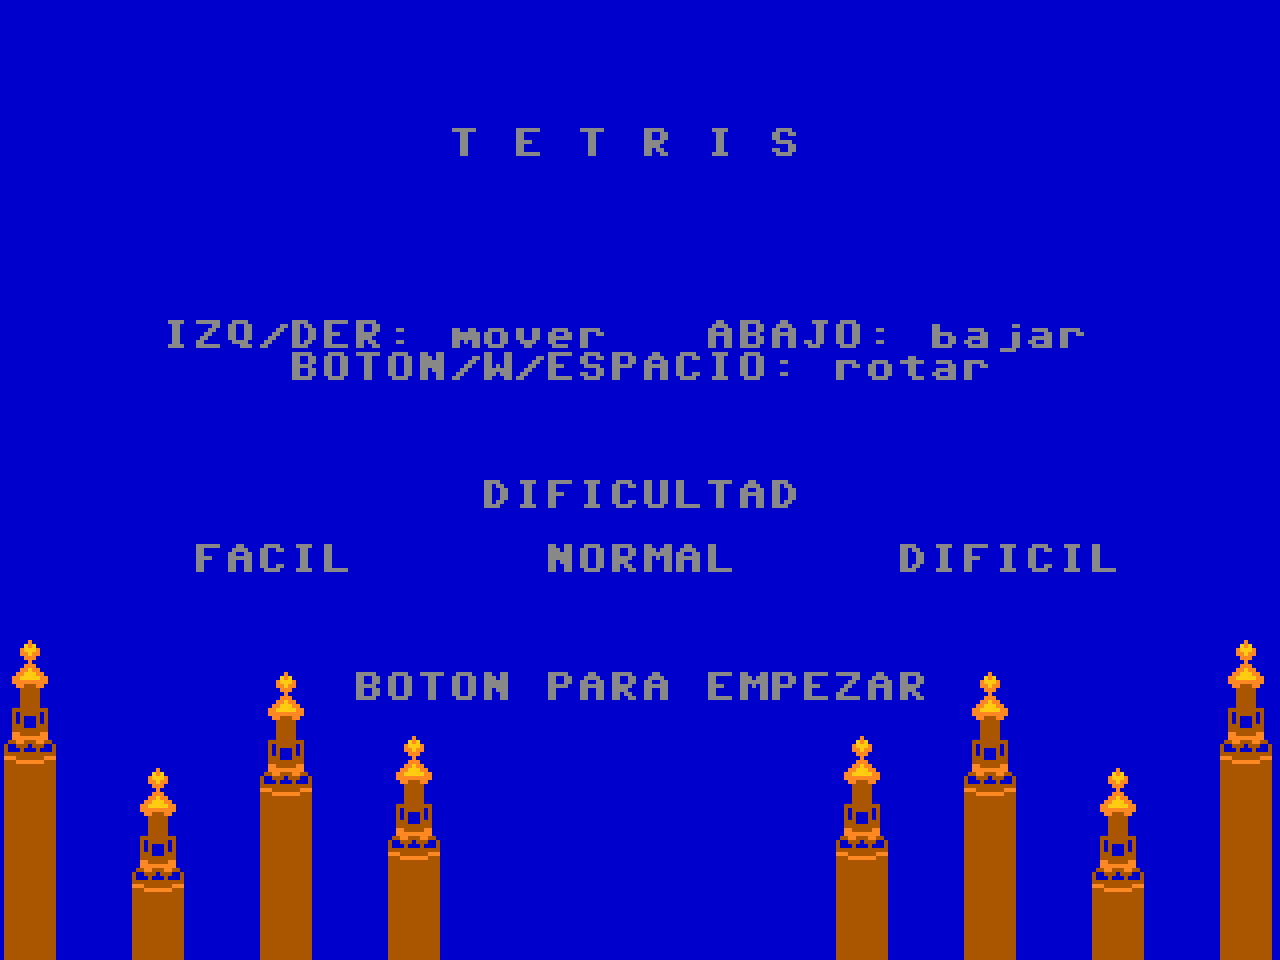
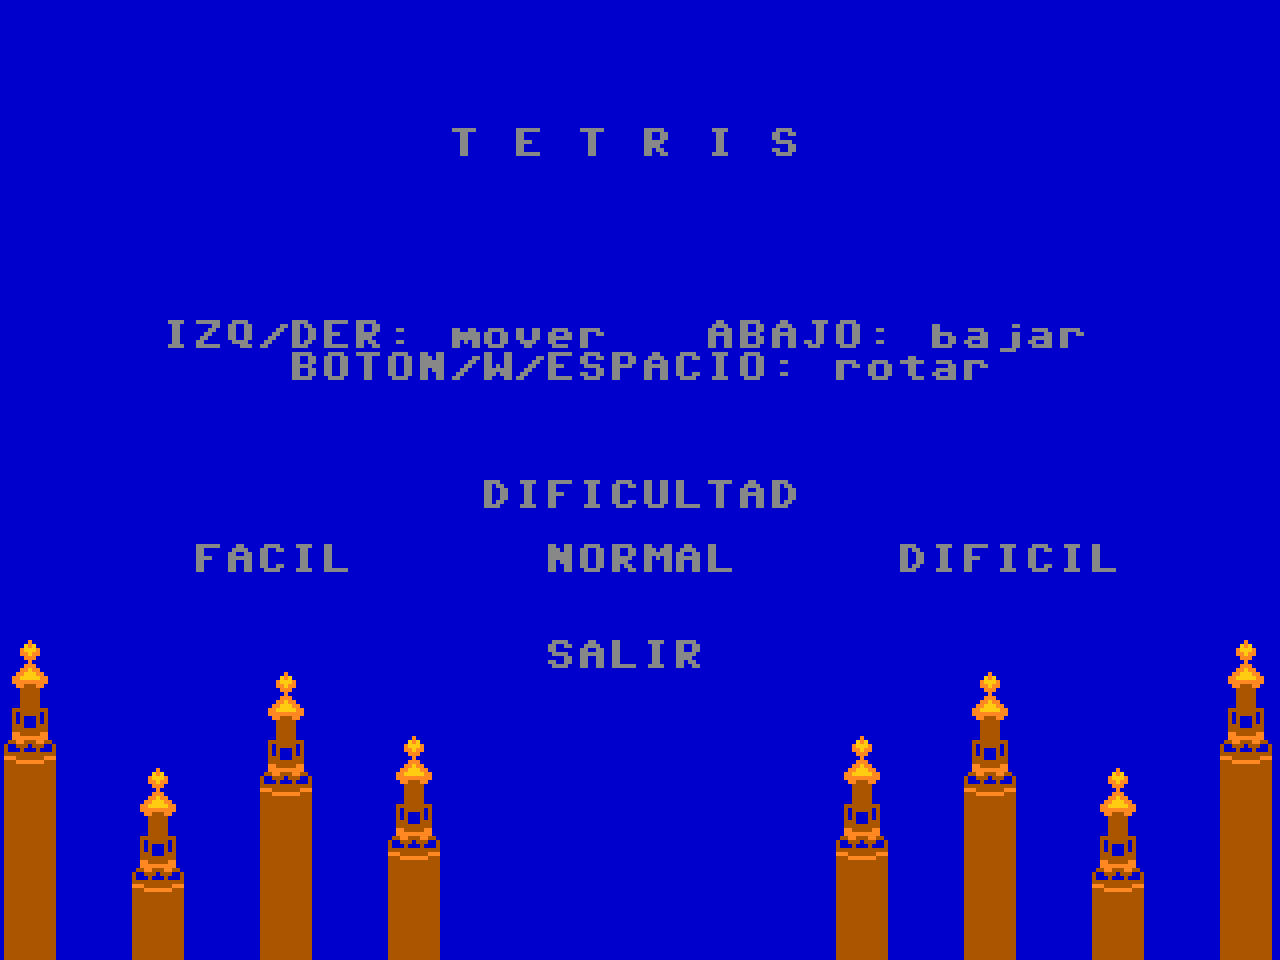
Añadir opción SALIR al menú, navegable con joystick
Selección con izquierda/derecha entre FACIL, NORMAL, DIFÍCIL y SALIR; el
botón confirma la opción resaltada. SALIR deja $C004 a 0 (como el comando
QB) para volver al launcher vía BOOT.INI.

Se elimina el aviso parpadeante de empezar, que ya no describe lo que hace
el botón, y se quita bye_screen() para hacer sitio en RAM.

Changed region(s): [[0.2812, 0.6562, 0.7188, 0.75]]

diff --git a/game.c b/game.c
@@ -1254,57 +1254,79 @@ static uint8_t play_game(void) {
  * =========================================================================== */
 
 /* Resultado de menu_input(). */
-#define MR_NONE   0
-#define MR_START  1
-#define MR_QUIT   2
-#define MR_LEFT   3
-#define MR_RIGHT  4
+#define MR_NONE     0
+#define MR_START    1
+#define MR_QUIT     2
+#define MR_LEFT     3
+#define MR_RIGHT    4
+#define MR_MONITOR  5   /* salir: vuelve al launcher (autoboot, como Q) */
+
+/* Seleccion del menu: 0..2 = dificultad, 3 = SALIR. */
+#define MENU_QUIT_ITEM  DIFF_COUNT
 
 static void draw_diff_menu(uint8_t sel, uint8_t on);
 
-/* Lee la entrada del menu de dificultad (joystick + teclado). Devuelve:
- * MR_LEFT/MR_RIGHT para cambiar la dificultad, MR_START para empezar, MR_QUIT
- * para salir. Actualiza 'difficulty' al cambiar. */
+/* Lee la entrada del menu (joystick + teclado). Devuelve:
+ *   MR_LEFT/MR_RIGHT -> mover la seleccion (dificultad o SALIR)
+ *   MR_START         -> empezar a jugar (si la seleccion es una dificultad)
+ *   MR_MONITOR       -> salir al launcher (autoboot), sea cual sea la seleccion
+ *   MR_QUIT          -> salir siempre (tecla Q)
+ * La seleccion vive en 'menu_sel' (0..DIFF_COUNT). */
+static uint8_t menu_sel;   /* 0..2 = dificultad, 3 = SALIR */
+
+/* Dibuja un item del menu en (col,row). Si esta seleccionado se pinta en color
+ * vivo (parpadea) y con flechas a los lados. */
+static void draw_item(uint8_t col, uint8_t row, const char *txt, uint8_t len,
+                      uint8_t sel, uint8_t on) {
+    uint8_t p = (uint8_t)(on ? PAL_SEL : PAL_UI);
+
+    clear_str_at((uint8_t)(col - 1), row, 9);
+    if (sel) {
+        if (on) put_str_pal((uint8_t)(col - 1), row, ">", p);
+        put_str_pal(col, row, txt, p);
+        if (on) put_str_pal((uint8_t)(col + len), row, "<", p);
+    } else {
+        put_str_pal(col, row, txt, PAL_UI);
+    }
+}
+
 static uint8_t menu_input(void) {
     char c;
     uint8_t j = joy_read();
     uint8_t res = MR_NONE;
     static uint8_t prev = 0;
     uint8_t jp = (uint8_t)(j & (uint8_t)~prev);
+    int8_t  move = 0;          /* -1 izquierda, +1 derecha, 0 = nada */
 
-    if (jp & JOY_A_LEFT)  res = MR_LEFT;
-    if (jp & JOY_A_RIGHT) res = MR_RIGHT;
-    if (jp & JOY_A_FIRE)  res = MR_START;
+    if (jp & JOY_A_LEFT)  move = -1;
+    if (jp & JOY_A_RIGHT) move = 1;
+    /* El boton actua segun lo seleccionado: SALIR -> monitor, resto -> jugar. */
+    if (jp & JOY_A_FIRE)  res = (menu_sel == MENU_QUIT_ITEM) ? MR_MONITOR : MR_START;
     prev = j;
 
     while (rom_uart_rx_ready()) {
         c = rom_uart_getc();
-        switch (c) {
-            case 'a': case 'A': case '4': res = MR_LEFT;  break;
-            case 'd': case 'D': case '6': res = MR_RIGHT; break;
-            case ' ': case '\r': case '\n': case 'e': case 'E': res = MR_START; break;
-            case 'q': case 'Q': res = MR_QUIT; break;
-            default: break;
-        }
+        if (c == 'a' || c == 'A' || c == '4') move = -1;
+        else if (c == 'd' || c == 'D' || c == '6') move = 1;
+        else if (c == 'q' || c == 'Q') res = MR_QUIT;
+        else if (c == 'm' || c == 'M') res = MR_MONITOR;
+        else if (c == ' ' || c == '\r' || c == '\n' || c == 'e' || c == 'E')
+            res = (menu_sel == MENU_QUIT_ITEM) ? MR_MONITOR : MR_START;
     }
 
-    /* Aplica el cambio de dificultad y redibuja el menu. Suena un click (reusa
-     * snd_move) solo si la seleccion cambia de verdad. */
-    if (res == MR_LEFT && difficulty > 0) {
-        difficulty--;
-        draw_diff_menu(difficulty, 1);
-        snd_move();
-        res = MR_NONE;
-    } else if (res == MR_RIGHT && difficulty < DIFF_COUNT - 1) {
-        difficulty++;
-        draw_diff_menu(difficulty, 1);
+    /* Mueve la seleccion (con clic) si cambio de verdad. */
+    if ((move < 0 && menu_sel > 0) || (move > 0 && menu_sel < MENU_QUIT_ITEM)) {
+        menu_sel = (uint8_t)(menu_sel + move);
+        if (menu_sel < DIFF_COUNT) difficulty = menu_sel;
+        draw_diff_menu(menu_sel, 1);
         snd_move();
         res = MR_NONE;
     }
     return res;
 }
 
-/* Dibuja las 3 opciones de dificultad en una fila; 'sel' va resaltada. */
+/* Dibuja el menu: las 3 dificultades en una fila (17) y SALIR en la 20.
+ * 'sel' = item resaltado (0..3); 'on' = fase del parpadeo de la seleccion. */
 static void draw_diff_menu(uint8_t sel, uint8_t on) {
     uint8_t i;
     /* Columna inicial de cada opcion. Repartidas por toda la fila (40 cols)
@@ -1316,22 +1338,14 @@ static void draw_diff_menu(uint8_t sel, uint8_t on) {
     /* Etiqueta. */
     put_str_pal(15, 15, "DIFICULTAD", PAL_UI);
 
-    for (i = 0; i < DIFF_COUNT; i++) {
-        /* Borra la zona de la opcion (con sitio para las flechas). */
-        clear_str_at((uint8_t)(col[i] - 1), 17, 9);
-        if (i == sel) {
-            /* Resaltada: color vivo (parpadea) + flechas a los lados. */
-            uint8_t p = on ? PAL_SEL : PAL_UI;
-            if (on) put_str_pal((uint8_t)(col[i] - 1), 17, ">", p);
-            put_str_pal(col[i], 17, diff_label(i), p);
-            if (on) put_str_pal((uint8_t)(col[i] + len[i]), 17, "<", p);
-        } else {
-            put_str_pal(col[i], 17, diff_label(i), PAL_UI);
-        }
-    }
+    for (i = 0; i < DIFF_COUNT; i++)
+        draw_item(col[i], 17, diff_label(i), len[i], (uint8_t)(i == sel), on);
+
+    /* SALIR, en su propia fila con aire respecto al menu de dificultad. */
+    draw_item(17, 20, "SALIR", 5, (uint8_t)(sel == MENU_QUIT_ITEM), on);
 }
-/* Dibuja las 3 opciones de dificultad en una fila; 'sel' va resaltada. */
-/* Pantalla de titulo. Devuelve 1 = jugar, 0 = salir. */
+/* Pantalla de titulo. Devuelve 0 = salir (con autoboot), 1 = jugar,
+ * 2 = salir al prompt del monitor SIN autoboot. */
 static uint8_t title_screen(void) {
     /* Dibujo de transicion (fondo + textos): fuera del VBLANK. */
     draw_background();
@@ -1343,8 +1357,9 @@ static uint8_t title_screen(void) {
     /* Melodia de introduccion (no bloqueante: avanza en snd_update). */
     snd_jingle();
 
-    /* Menu de dificultad. */
-    draw_diff_menu(difficulty, 1);
+    /* Menu: dificultades + SALIR (seleccion navegable con joystick). */
+    menu_sel = difficulty;
+    draw_diff_menu(menu_sel, 1);
 
     /* Espera a que se SUELTE el boton/direccion antes de leer el menu (evita
      * que el boton que disparo el game over inicie la partida de golpe). */
@@ -1356,29 +1371,18 @@ static uint8_t title_screen(void) {
     while (rom_uart_rx_ready()) (void)rom_uart_getc();
 
     {
-        uint8_t  shown = 0xFF;
         uint16_t hold  = 0;
         uint8_t  sel_shown = 0xFF;   /* estado dibujado del parpadeo de seleccion */
 
         for (;;) {
             uint8_t rd;
-            uint8_t on = (uint8_t)((hold / 40) & 1);
             uint8_t sel_on = (uint8_t)((hold / 16) & 1);   /* parpadeo del menu */
 
             vc_wait_vblank();
 
-            /* Parpadeo del aviso de inicio. */
-            if (on != shown) {
-                if (on) {
-                    clear_str_at(11, 21, 18);
-                } else {
-                    put_str_pal(11, 21, "BOTON PARA EMPEZAR", PAL1);
-                }
-                shown = on;
-            }
             /* Parpadeo de la opcion seleccionada. */
             if (sel_on != sel_shown) {
-                draw_diff_menu(difficulty, sel_on);
+                draw_diff_menu(menu_sel, sel_on);
                 sel_shown = sel_on;
             }
             hold++;
@@ -1387,26 +1391,10 @@ static uint8_t title_screen(void) {
 
             /* Menu: elegir dificultad + empezar / salir. */
             rd = menu_input();
-            if (rd == MR_START) return 1;
-            if (rd == MR_QUIT)  return 0;
+            if (rd == MR_START)   return 1;
+            if (rd == MR_QUIT)    return 0;
+            if (rd == MR_MONITOR) return 2;   /* 2 = salir al prompt del monitor */
         }
-    }
-}
-
-/* ===========================================================================
- * DESPEDIDA
- * =========================================================================== */
-static void bye_screen(void) {
-    uint8_t i;
-
-    /* Dibujo de transicion (fuera del VBLANK). */
-    draw_background();
-    put_str_pal(11, 13, "GRACIAS POR JUGAR", PAL_UI);
-    put_str_pal(16, 15, "TETRIS 6502", PAL1);
-
-    for (i = 0; i < 80; i++) {
-        vc_wait_vblank();
-        vc_wait_vblank_end();
     }
 }
 
@@ -1423,19 +1411,17 @@ int main(void) {
     hs_reset();
     difficulty = 1;     /* dificultad por defecto: NORMAL */
 
-    if (!title_screen()) {
-        bye_screen();
-        snd_silence();
-        vc_wait_vblank();
-        vc_clear_oam();
-        vc_set_scroll_x(0);
-        vc_set_scroll_y(0);
-        rom_uart_puts("\r\nSaliendo al monitor...\r\n");
-        return 0;
-    }
+    /* Flag de AUTOBOOT del monitor ($C004 bit 0). 0 = ejecutar BOOT.INI,
+     * 0 = ejecutar BOOT.INI (autoboot), 1 = ir al prompt.
+     * Se deja a 0 (como el comando QB) para que SALIR vuelva al LAUNCHER que
+     * arranco el juego. */
+    *(volatile uint8_t *)0xC004 = 0x00;
 
     for (;;) {
-        if (!play_game()) break;    /* salio con Q durante la partida */
+        uint8_t r = title_screen();
+        if (r != 1) goto salir;        /* 0 = Q, 2 = SALIR: vuelven al launcher */
+
+        if (!play_game()) goto salir;  /* Q durante la partida */
 
         /* Fin de partida (GAME OVER). - NO silenciar aqui: la melodia de
          * snd_over() sigue sonando y se avanza en los bucles de espera. */
@@ -1483,12 +1469,11 @@ int main(void) {
             if (c == 'q' || c == 'Q') goto salir;
         }
 
-        /* Vuelve al menu de titulo (permite elegir dificultad otra vez). */
-        if (!title_screen()) goto salir;
+        /* Vuelve al menu de titulo (permite elegir dificultad otra vez).
+         * title_screen() puede pedir salir en cualquier vuelta. */
     }
 
 salir:
-    bye_screen();
     snd_silence();
     vc_wait_vblank();
     vc_clear_oam();

diff --git a/README.md b/README.md
@@ -38,7 +38,7 @@ Se puede jugar con **joystick Atari (DB9)** o con **teclado UART**, en paralelo.
 | `s` / `2` / flecha ↓ | bajar (soft drop) |
 | `w` / `8` / flecha ↑ / espacio | rotar |
 | `p` | pausa (alterna) |
-| `q` | salir al monitor |
+| `q` | salir al monitor (desde cualquier pantalla) |
 | `r` | (en GAME OVER) volver al menú |
 
 Al mover a los lados o rotar hay **auto-repetición (DAS)**: mantener la dirección
@@ -46,8 +46,8 @@ un instante hace que la pieza siga moviéndose.
 
 ### Menú de dificultad
 
-Al arrancar (y tras cada GAME OVER) se muestra la pantalla de título con un
-**menú de dificultad** de 3 opciones:
+Al arrancar (y tras cada GAME OVER) se muestra la pantalla de título con el
+**menú** de opciones **FÁCIL / NORMAL / DIFÍCIL / SALIR**:
 
 ![Menú de dificultad](doc/img/tetris-menu.png)
 
@@ -65,10 +65,24 @@ Las tres se separan a propósito en **dos frentes**:
   mucho más cortos en DIFÍCIL, así que **no da tiempo a recolocar** la pieza
   apoyada y hay que planificar antes.
 
-- **Izquierda/Derecha** (joystick o `A`/`D`): cambia la opción (parpadea con
-  flechas `>` `<`).
-- **Botón / Espacio / Enter**: empieza la partida con la dificultad elegida.
-- **Q**: salir.
+- **Izquierda/Derecha** (joystick o `A`/`D`): mueve la selección entre las
+  opciones (parpadean con flechas `>` `<`).
+- **Botón / Espacio / Enter**: confirma la opción seleccionada. Sobre una
+  dificultad **empieza la partida**; sobre **SALIR**, vuelve al launcher.
+- **Q**: salir (autoboot).
+
+#### Volver al launcher (autoboot)
+
+La opción **SALIR** equivale al comando **`QB`** del monitor: escribe `0` en el
+flag de usuario **`$C004`** (bit 0) y vuelve al monitor, que **relee `BOOT.INI`**
+y ejecuta de nuevo el **launcher** desde el que se arrancó el juego.
+
+- **`SALIR`** en el menú (botón) → vuelve al launcher.
+- **`Q`** (menú o partida) → también sale por autoboot.
+
+> Si `BOOT.INI` apuntara al propio juego en vez de a un launcher, esto lo
+> relanzaría. Cambia `$C004` a `1` para que en su lugar aparezca el **prompt
+del monitor**.
 
 ### Reglas
 
